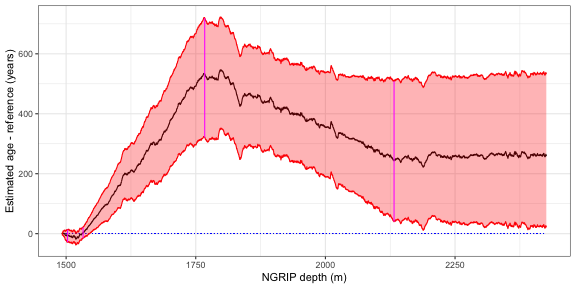
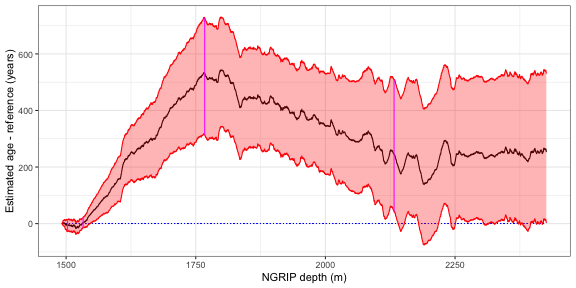
Rescaled depth2 covariate in examples
Somehow the recent version of INLA struggled with large covariates common for depth^2. Rescaled by dividing by the first value

diff --git a/README.md b/README.md
@@ -48,9 +48,10 @@ data("NGRIP_5cm")
 
 age = NGRIP_5cm$age
 depth = NGRIP_5cm$depth
+depth2 = depth^2/depth[1]^2 #normalize for stability
 d18O = NGRIP_5cm$d18O
 
-data = data.frame(age=age,dy=c(NA,diff(age)),depth=depth,depth2=depth^2,d18O=d18O)
+data = data.frame(age=age,dy=c(NA,diff(age)),depth=depth,depth2=depth2,d18O=d18O)
 formula = dy~-1+depth2+d18O
 
 events=list(locations = events_rasmussen$depth,
@@ -65,11 +66,11 @@ results = bremla(formula,data,reference.label="GICC05",
 summary(results)
 #> 
 #> Call:
-#> knitr::knit("README.Rmd", "README.md")
+#> knit("README.Rmd", "README.md")
 #> 
 #> Time used:
 #>   Model fitting Chron. sampling           Total 
-#>         14.3554         98.1266        115.1245 
+#>          9.4651       2644.0796       2656.2009 
 #> 
 #> The fixed component is explained by linear predictor: 
 #> dy ~ -1 + depth2 + d18O + psi_fill(degree=1, n_events=69)
@@ -78,8 +79,8 @@ summary(results)
 #> 
 #> The model is fitted using INLA, with following estimates for the hyperparameters:
 #>                 mean     sd quant0.025 quant0.25 quant0.5 quant0.75 quant0.975
-#> sigma_epsilon 0.4239 0.0021     0.4201    0.4224   0.4238    0.4253     0.4283
-#> phi           0.1860 0.0074     0.1706    0.1810   0.1863    0.1911     0.1997
+#> sigma_epsilon 0.4444 0.0025     0.4396    0.4428   0.4444    0.4461     0.4493
+#> phi           0.2639 0.0072     0.2498    0.2590   0.2639    0.2687     0.2779
 #> 
 #> Simulating 5000 chronologies, using GICC05 as reference.
 #> 
